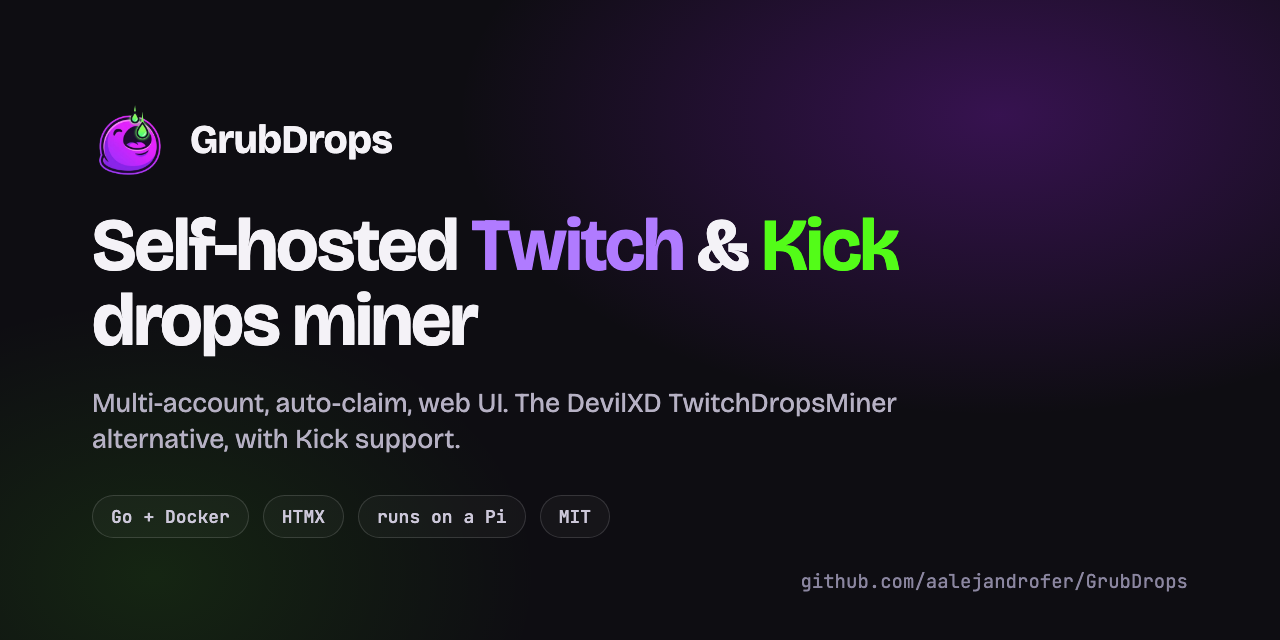
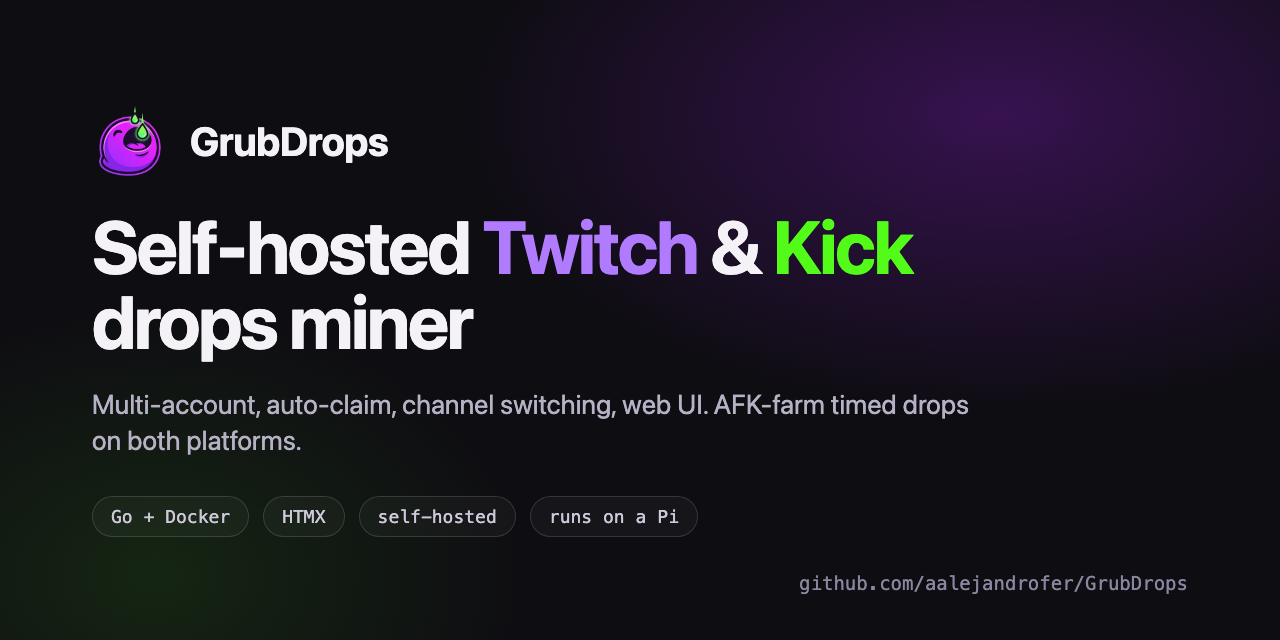
docs(seo): restore set-and-forget tagline; drop competitor + MIT from marketing copy
- README H3 back to the original 'Self-hosted, set-and-forget Twitch & Kick
  drops miner.'
- Remove the DevilXD/TwitchDropsMiner 'alternative' framing from the landing
  page meta/og and the social card (Credits attribution stays).
- Drop the 'MIT' chip from the social card + landing hero (license info kept
  in README + footer).

diff --git a/docs/index.html b/docs/index.html
@@ -4,11 +4,11 @@
 <meta charset="utf-8">
 <meta name="viewport" content="width=device-width,initial-scale=1">
 <title>GrubDrops — Self-hosted Twitch &amp; Kick drops miner</title>
-<meta name="description" content="Self-hosted Twitch and Kick drops miner. Multi-account, auto-claim, web UI. A DevilXD TwitchDropsMiner alternative, with Kick support. Go + Docker.">
+<meta name="description" content="Self-hosted Twitch and Kick drops miner. Multi-account, auto-claim, channel switching, web UI. AFK-farm timed drops on both platforms. Go + Docker.">
 <link rel="icon" type="image/png" sizes="32x32" href="img/favicon-32.png">
 <meta property="og:type" content="website">
 <meta property="og:title" content="GrubDrops — Self-hosted Twitch & Kick drops miner">
-<meta property="og:description" content="Multi-account, auto-claim, web UI. A DevilXD TwitchDropsMiner alternative, with Kick support.">
+<meta property="og:description" content="Multi-account, auto-claim, channel switching, web UI. AFK-farm timed drops on Twitch and Kick.">
 <meta property="og:image" content="img/social-preview.png">
 <meta name="twitter:card" content="summary_large_image">
 <link rel="canonical" href="https://grubdrops.github.io/grubdrops/">
@@ -101,7 +101,7 @@
       <span class="chip">Go + Docker</span>
       <span class="chip">HTMX web UI</span>
       <span class="chip">runs on a Raspberry Pi</span>
-      <span class="chip">MIT licensed</span>
+      <span class="chip">self-hosted</span>
     </div>
   </div>
 

diff --git a/docs/mockups/social-card.html b/docs/mockups/social-card.html
@@ -49,12 +49,12 @@
     <span class="wordmark">GrubDrops</span>
   </div>
   <h1>Self-hosted <span class="tw">Twitch</span> &amp; <span class="kk">Kick</span> drops miner</h1>
-  <p class="sub">Multi-account, auto-claim, web UI. The DevilXD TwitchDropsMiner alternative, with Kick support.</p>
+  <p class="sub">Multi-account, auto-claim, channel switching, web UI. AFK-farm timed drops on both platforms.</p>
   <div class="chips">
     <span class="chip">Go + Docker</span>
     <span class="chip">HTMX</span>
+    <span class="chip">self-hosted</span>
     <span class="chip">runs on a Pi</span>
-    <span class="chip">MIT</span>
   </div>
   <div class="url">github.com/grubdrops/grubdrops</div>
 </body>

diff --git a/README.md b/README.md
@@ -4,7 +4,7 @@
 
 <p align="center"><sub><strong>English</strong> · <a href="docs/translations/README.zh-CN.md">简体中文</a> · <a href="docs/translations/README.es.md">Español</a></sub></p>
 
-<h3 align="center">Self-hosted miner that AFK-farms Twitch &amp; Kick drops, with automatic claiming and channel switching.</h3>
+<h3 align="center">Self-hosted, set-and-forget Twitch &amp; Kick drops miner.</h3>
 
 <p align="center">
   <img alt="Go" src="https://img.shields.io/badge/Go-1.26-00ADD8?logo=go&logoColor=white">
